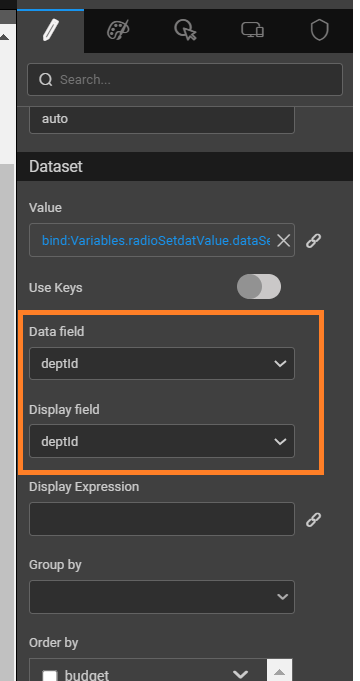
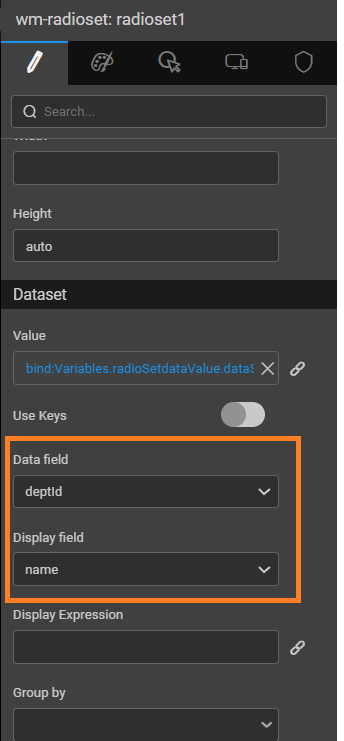
changedsentences

diff --git a/learn/how-tos/radioset-filter-list.md b/learn/how-tos/radioset-filter-list.md
@@ -25,7 +25,7 @@ Add a [Page](/learn/app-development/ui-design/designing-app), import the [HRDB](
 ## Binding Radioset widget datavalue to variable
 - Drag and drop a RadioSet widget into the canvas.
 - Bind the datavalue of radioset widget to the databasecrud variable radioSetDataValue which is created in above step.
-- From Radioset properties panel set **datafield** value to deptId and also **displayfield** value to deptId as shown below.
+- From Radioset properties panel set **datafield** value to deptId and also **displayfield** value to name as shown below.
 
 ![radio_setfiltervariable_properties](/learn/assets/radio_setfiltervariable_properties.png)
 
@@ -35,7 +35,7 @@ Add a [Page](/learn/app-development/ui-design/designing-app), import the [HRDB](
 
 ![hrdb_listvariable](/learn/assets/hrdb_listvariable.png)
 
-## Filtering the List records based on the input taken from Radioset
+## Filter Records from Radioset
 
 - Now go to events tab of Radioset widget and set the onchange event to Javascript as shown below.
 
@@ -53,7 +53,7 @@ Page.radioset1Change = function($event, widget, newVal, oldVal) {
             "deptId": {
                 "value": radioSetdataValue,
 
-                "matchMode": "LESS_THAN_OR_EQUALS"
+                "matchMode": "EQUALS_TO"
             }
         }
     });
@@ -63,7 +63,8 @@ Page.radioset1Change = function($event, widget, newVal, oldVal) {
 
 ## preview the page
 - preview the app.
-- If you select deptId from radioset this will filter and display the employee records in a list whos deptId is lessthanorequalsto selected deptId.
+
+- When you select the department name from the Radioset, employee records will display in the List below, which are filtered based on the condition set in the [radioset1Change method](#filter-records-from-radioset).
 
 Sample output when deptId selected as 1
 
@@ -73,4 +74,3 @@ sample output when deptId selected as2
 
 ![radioset-output-image2](/learn/assets/radioset-output-image2.png)
 
-<iframe width="708" height="560" src="https://docs.google.com/presentation/d/e/2PACX-1vT1qf-jqh1-M6cdn4hWduOxlMKpvoRwzLTz5luQf6LG-vktjB4vcL7II09YOuSIDH32p7V9F-VlvHnc/embed?start=false&amp;loop=false&amp;delayms=3000" frameborder="0" allowfullscreen="allowfullscreen" mozallowfullscreen="mozallowfullscreen" webkitallowfullscreen="webkitallowfullscreen"></iframe>
